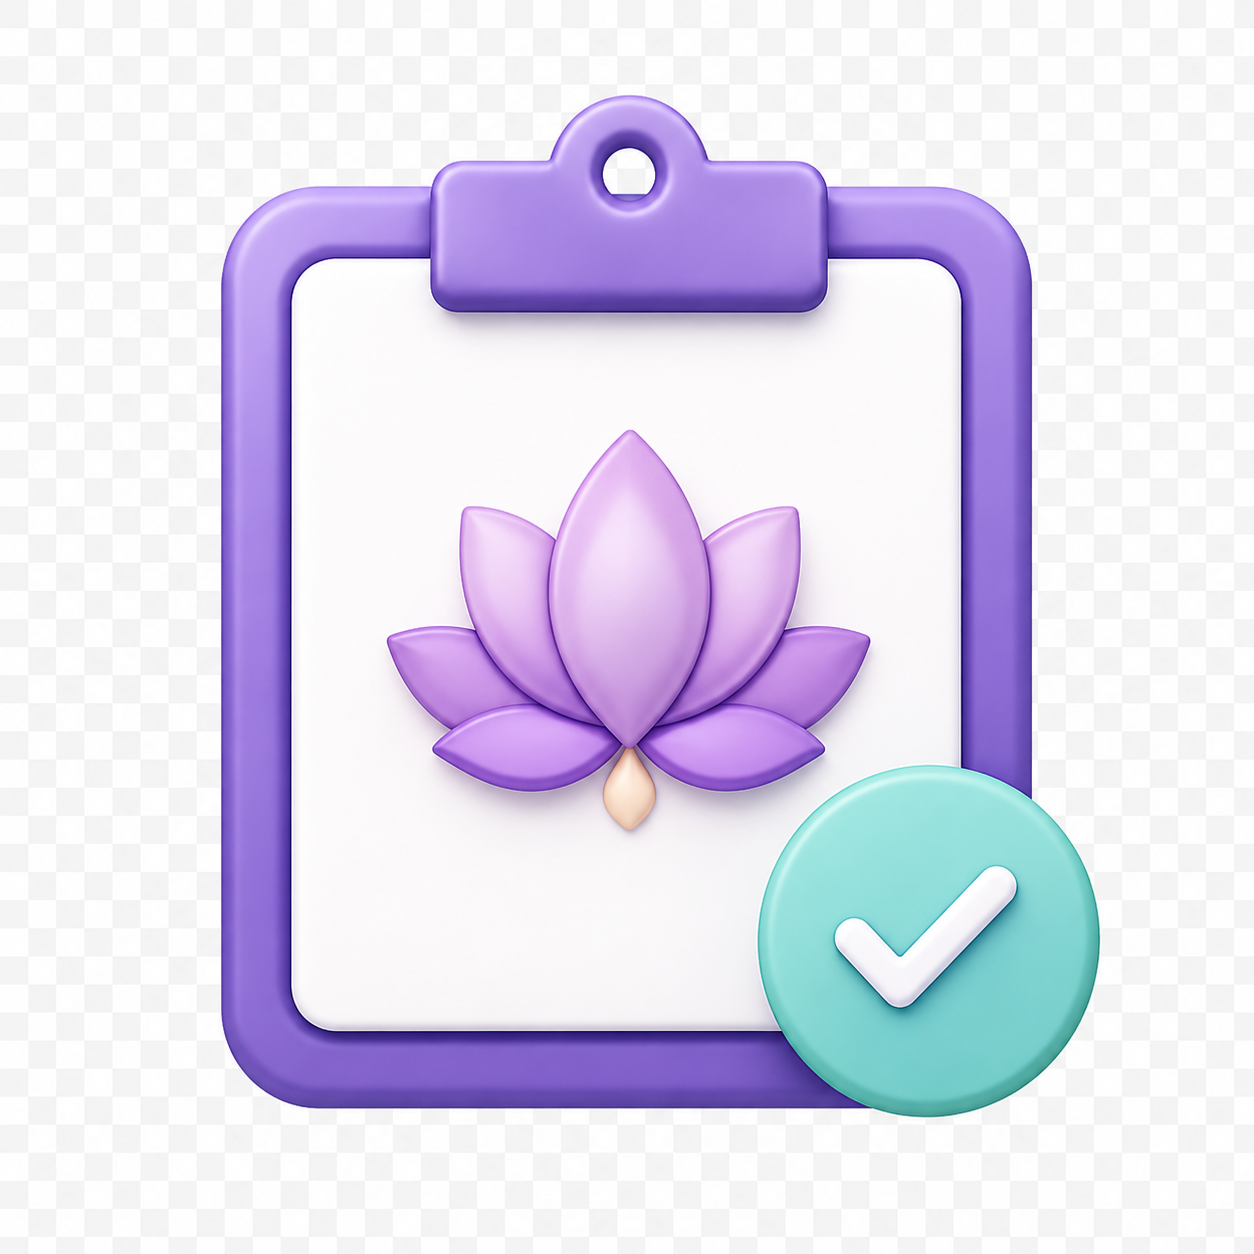
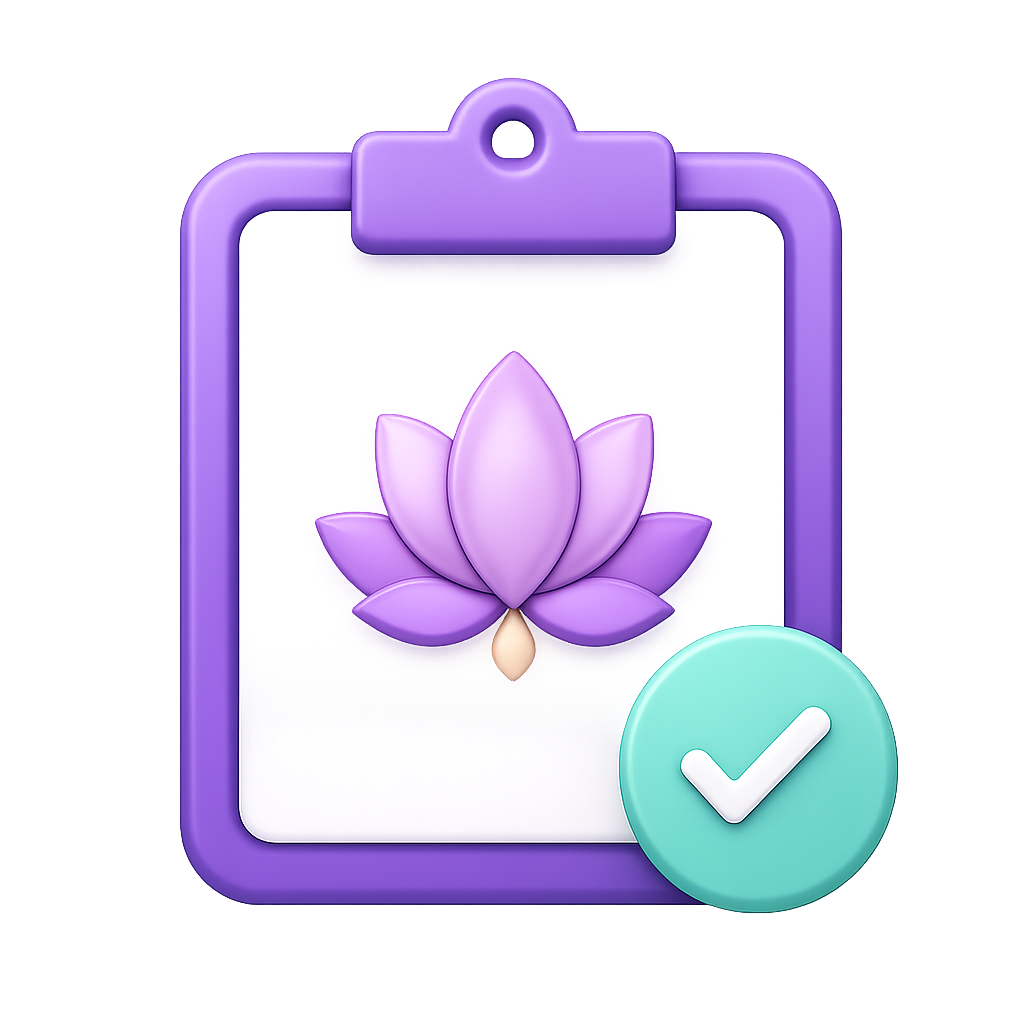
update

diff --git a/src/components/layout/OwnerBottomNav.tsx b/src/components/layout/OwnerBottomNav.tsx
@@ -6,14 +6,14 @@ import { usePathname } from 'next/navigation';
 import { cn } from '@/lib/utils';
 import { motion } from 'framer-motion';
 import { useAuth } from '@/contexts/AuthContext';
-import { Store } from 'lucide-react';
+import { Store, Scissors } from 'lucide-react';
 
 const baseItems = [
-  { href: '/owner/dashboard', img: '/dashboard.png',  label: 'Tổng quan' },
-  { href: '/owner/staff',     img: '/nhanvien.png',   label: 'Nhân viên' },
-  { href: '/owner/services',  img: '/dichvu.png',     label: 'Dịch vụ'  },
-  { href: '/owner/transactions', img: '/giaodich.png', label: 'Giao dịch' },
-  { href: '/owner/reports',   img: '/baocao.png',     label: 'Báo cáo'  },
+  { href: '/owner/dashboard',    img: '/dashboard.png' as string | null, label: 'Tổng quan' },
+  { href: '/owner/staff',        img: '/nhanvien.png',                   label: 'Nhân viên' },
+  { href: '/owner/services',     img: null,                              label: 'Dịch vụ'  },
+  { href: '/owner/transactions', img: '/giaodich.png',                   label: 'Giao dịch' },
+  { href: '/owner/reports',      img: '/baocao.png',                     label: 'Báo cáo'  },
 ];
 
 export default function OwnerBottomNav() {
@@ -45,16 +45,26 @@ export default function OwnerBottomNav() {
                     style={{ margin: '-4px' }}
                   />
                 )}
-                <Image
-                  src={item.img}
-                  alt={item.label}
-                  width={26}
-                  height={26}
-                  className={cn(
-                    'relative transition-opacity duration-200',
-                    active ? 'opacity-100' : 'opacity-45'
-                  )}
-                />
+                {item.img ? (
+                  <Image
+                    src={item.img}
+                    alt={item.label}
+                    width={26}
+                    height={26}
+                    className={cn(
+                      'relative transition-opacity duration-200',
+                      active ? 'opacity-100' : 'opacity-45'
+                    )}
+                  />
+                ) : (
+                  <Scissors
+                    size={22}
+                    className={cn(
+                      'relative transition-colors duration-200',
+                      active ? 'text-primary-600 dark:text-primary-400' : 'text-gray-400 dark:text-gray-500'
+                    )}
+                  />
+                )}
               </div>
               <span
                 className={cn(

diff --git a/src/components/layout/OwnerSidebar.tsx b/src/components/layout/OwnerSidebar.tsx
@@ -3,7 +3,7 @@
 import Link from 'next/link';
 import Image from 'next/image';
 import { usePathname } from 'next/navigation';
-import { Store, Moon, Sun, LogOut } from 'lucide-react';
+import { Store, Moon, Sun, LogOut, Scissors } from 'lucide-react';
 import { useAuth } from '@/contexts/AuthContext';
 import { useTheme } from '@/contexts/ThemeContext';
 import { cn } from '@/lib/utils';
@@ -11,7 +11,7 @@ import { cn } from '@/lib/utils';
 const NAV_ITEMS = [
   { href: '/owner/dashboard',    img: '/dashboard.png', label: 'Tổng quan'  },
   { href: '/owner/staff',        img: '/nhanvien.png',  label: 'Nhân viên'  },
-  { href: '/owner/services',     img: '/dichvu.png',    label: 'Dịch vụ'    },
+  { href: '/owner/services',     img: null,             label: 'Dịch vụ'    },
   { href: '/owner/transactions', img: '/giaodich.png',  label: 'Giao dịch'  },
   { href: '/owner/reports',      img: '/baocao.png',    label: 'Báo cáo'    },
 ];
@@ -50,13 +50,23 @@ export default function OwnerSidebar() {
                   : 'hover:bg-gray-50 dark:hover:bg-gray-800'
               )}
             >
-              <Image
-                src={item.img}
-                alt={item.label}
-                width={24}
-                height={24}
-                className={cn('flex-shrink-0 transition-opacity', active ? 'opacity-100' : 'opacity-45 group-hover:opacity-70')}
-              />
+              {item.img ? (
+                <Image
+                  src={item.img}
+                  alt={item.label}
+                  width={24}
+                  height={24}
+                  className={cn('flex-shrink-0 transition-opacity', active ? 'opacity-100' : 'opacity-45 group-hover:opacity-70')}
+                />
+              ) : (
+                <Scissors
+                  size={22}
+                  className={cn(
+                    'flex-shrink-0 transition-colors',
+                    active ? 'text-primary-600 dark:text-primary-400' : 'text-gray-400 opacity-45 group-hover:opacity-70'
+                  )}
+                />
+              )}
               <span className={cn(
                 'hidden lg:block text-sm font-medium truncate',
                 active ? 'text-primary-600 dark:text-primary-400' : 'text-gray-600 dark:text-gray-400'